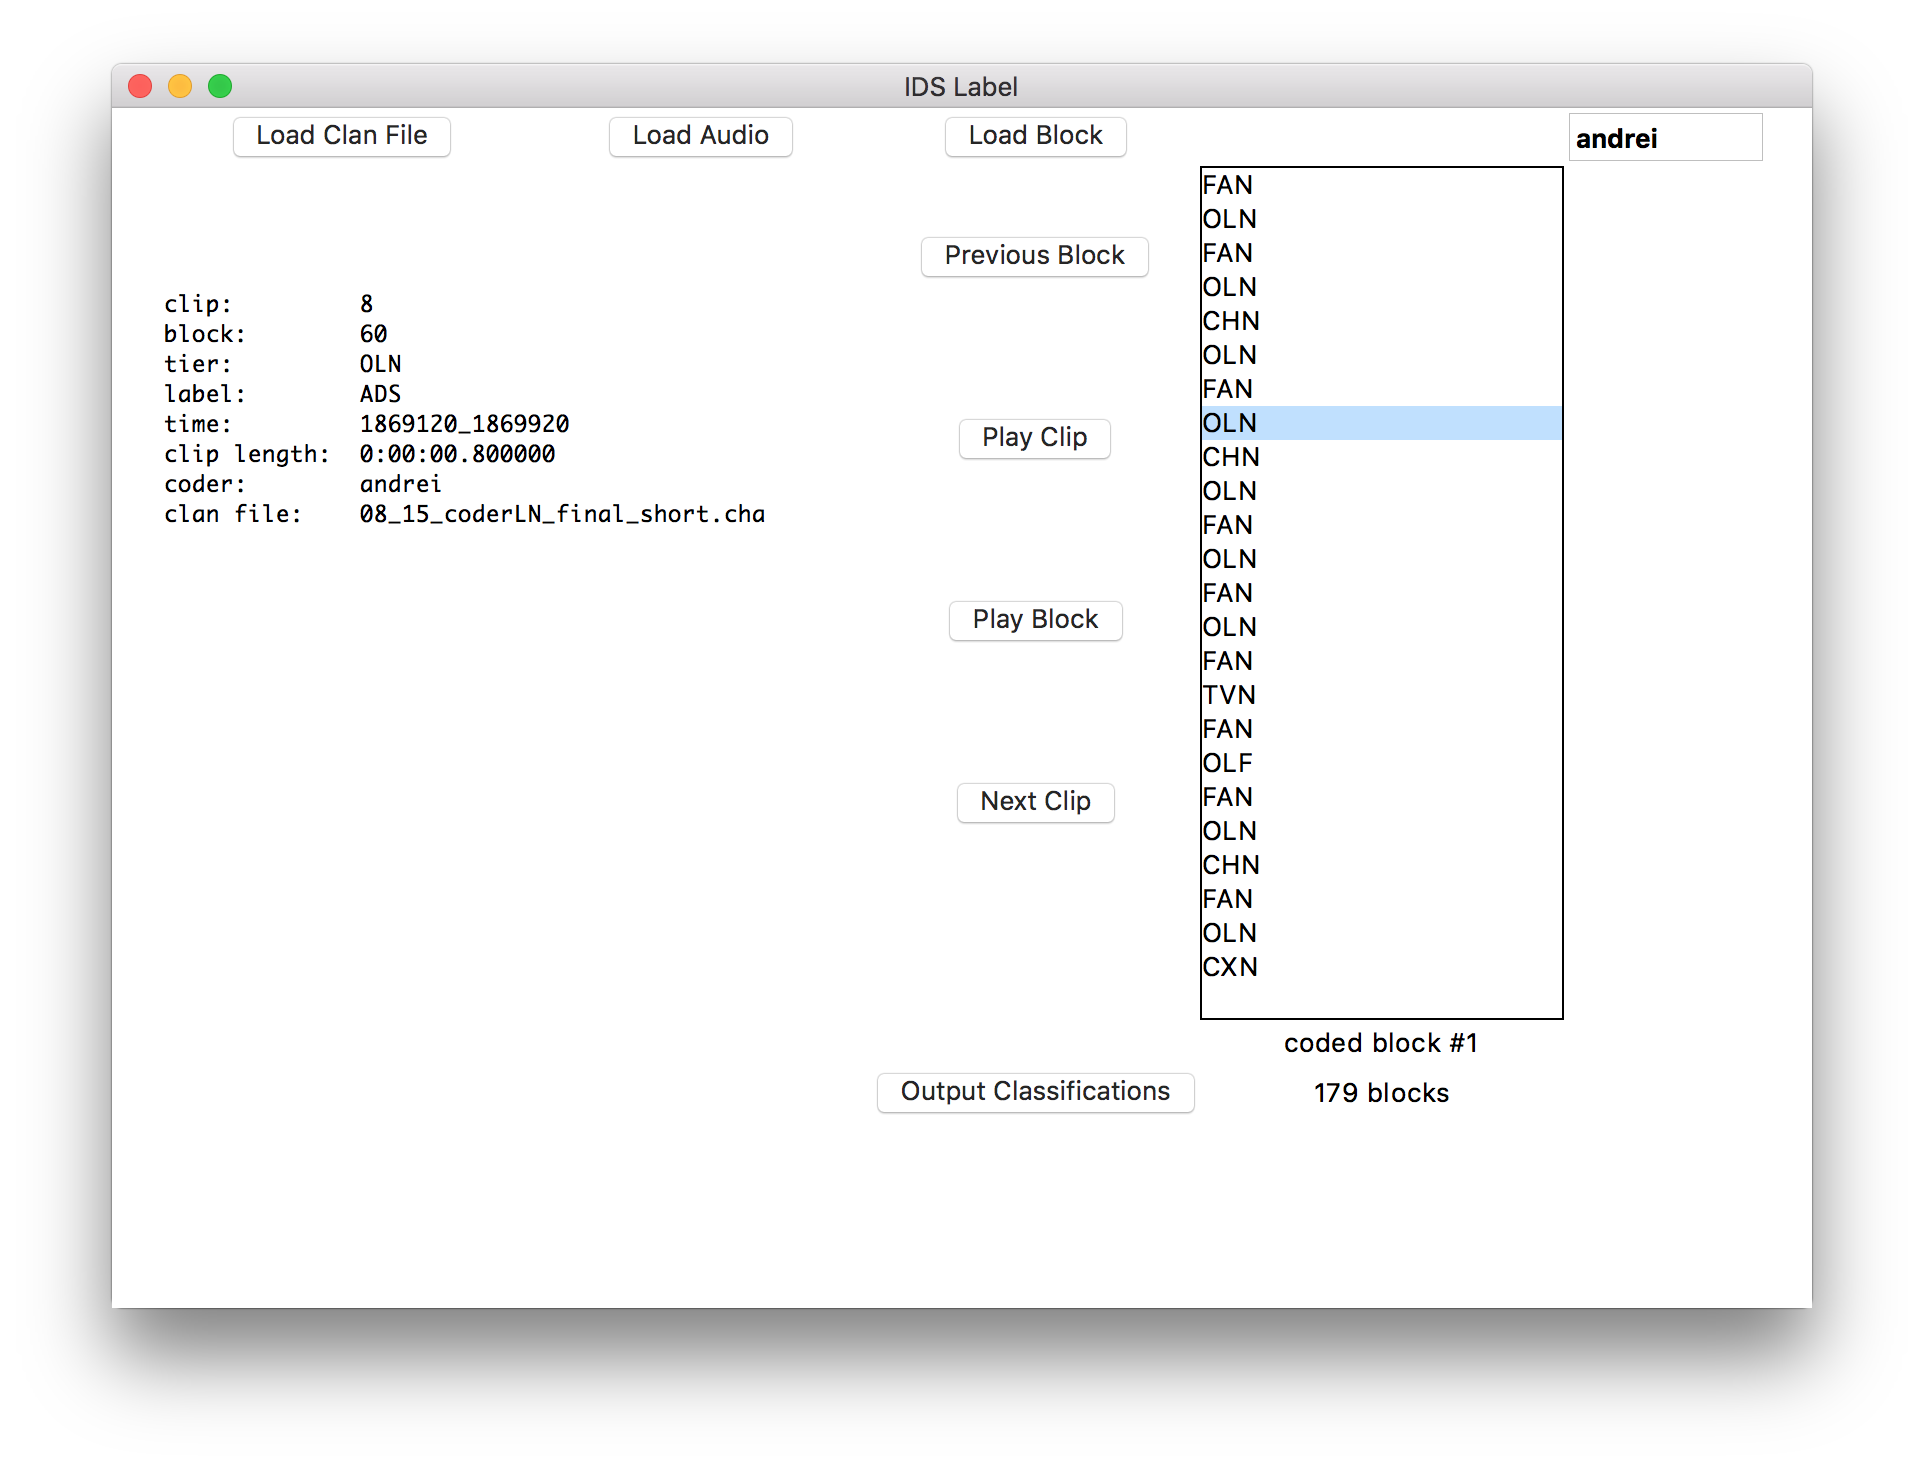
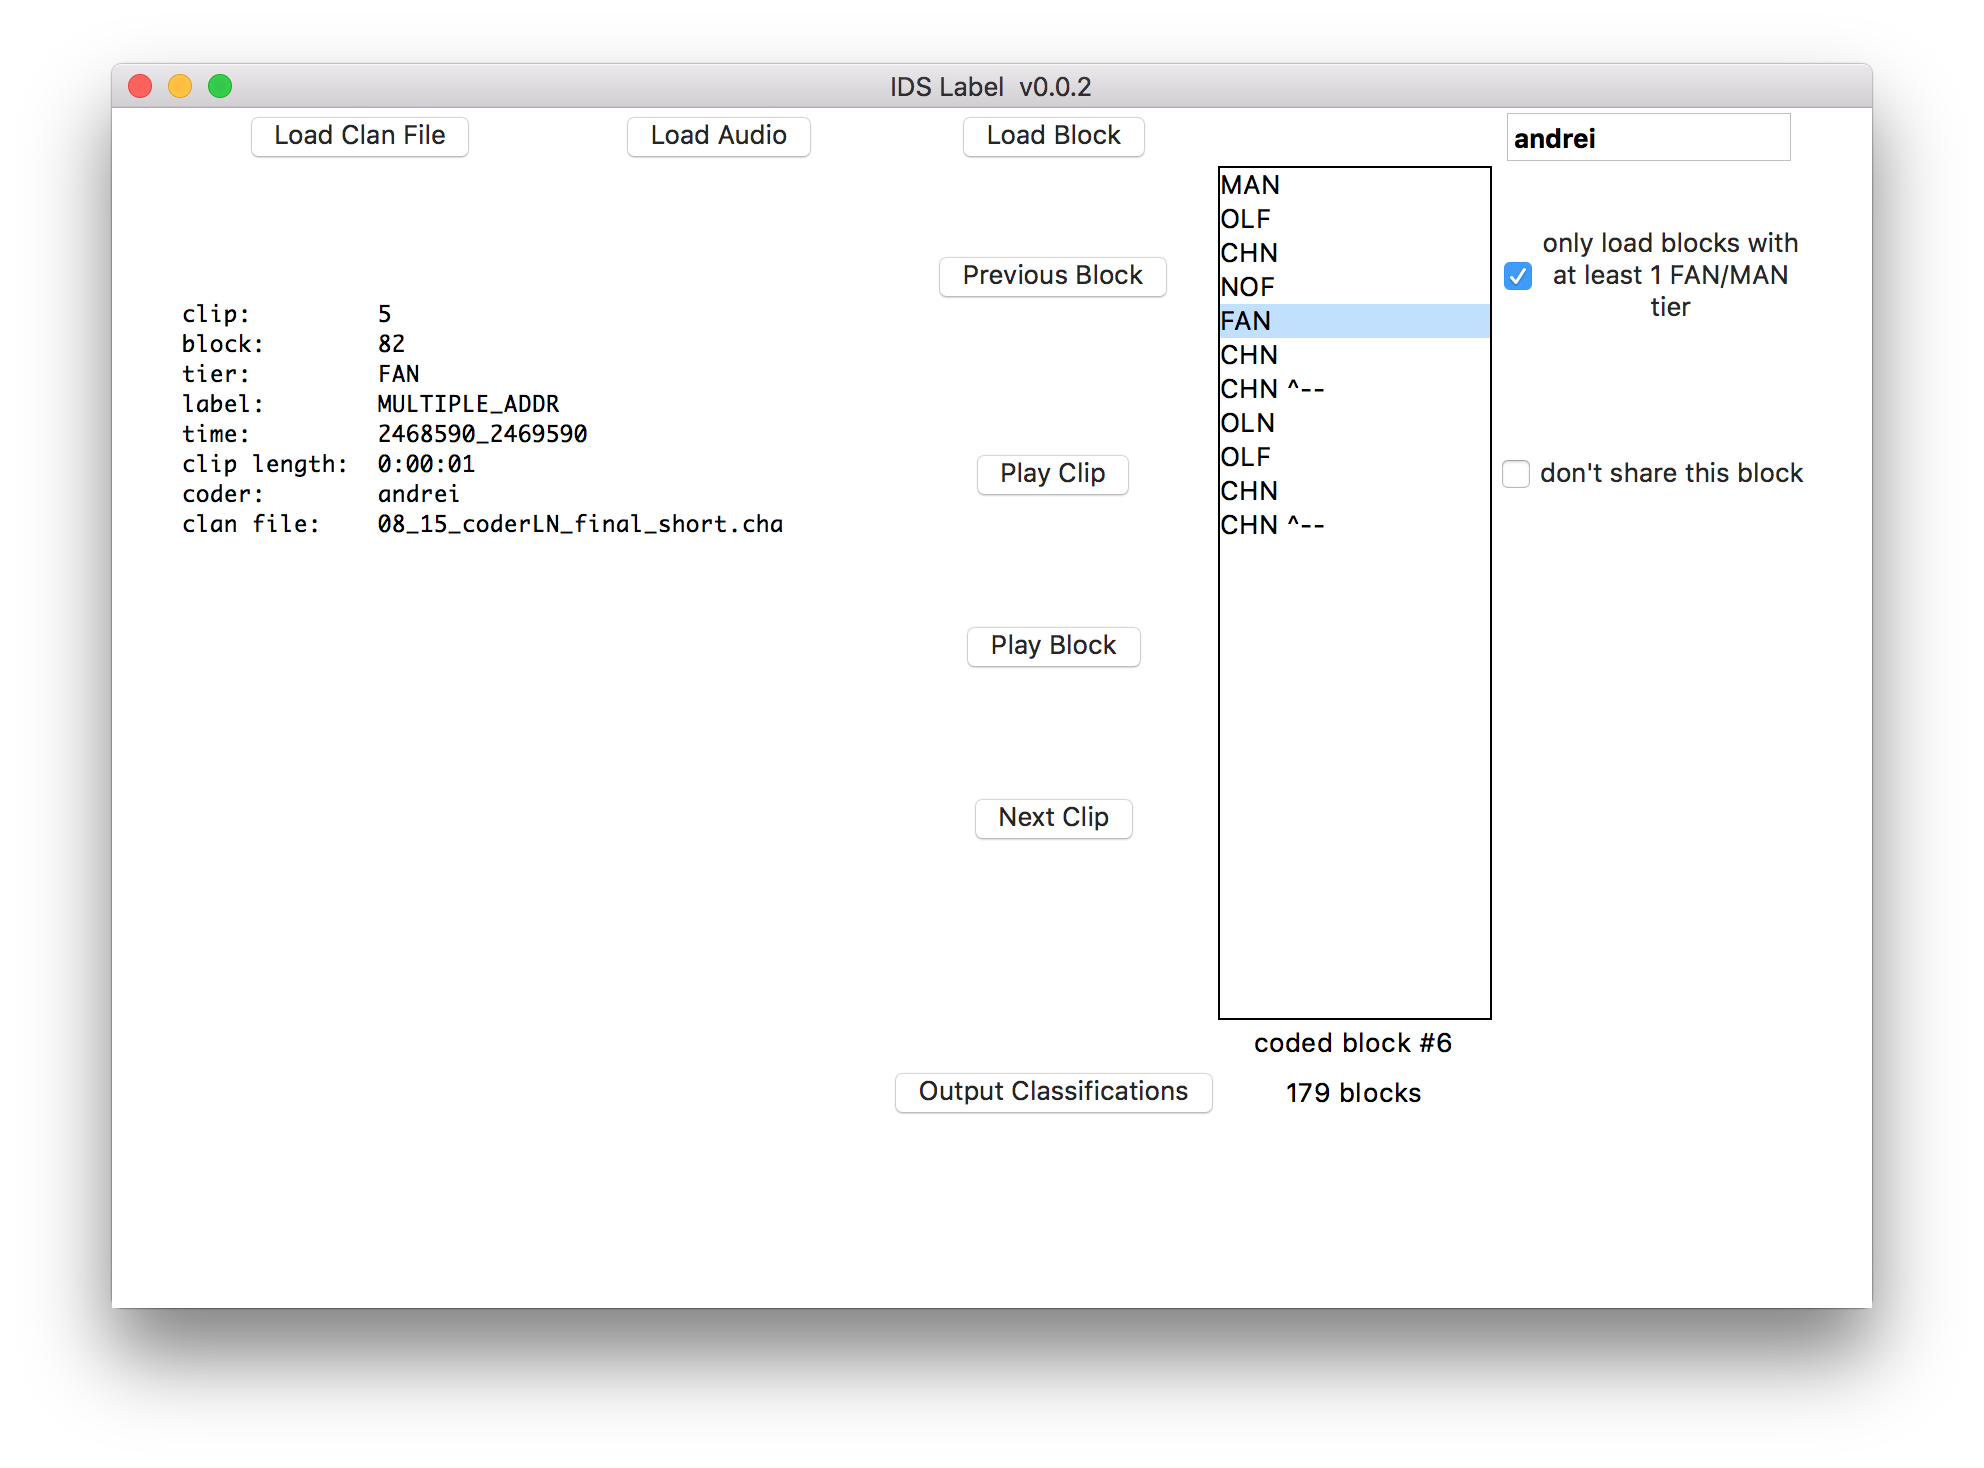
update screenshot and version number

diff --git a/idslabel.py b/idslabel.py
@@ -13,7 +13,7 @@ import tkFileDialog
 from tkMessageBox import showwarning
 
 
-version = "0.0.1"
+version = "0.0.2"
 
 class Block:
     def __init__(self, index, clan_file):
